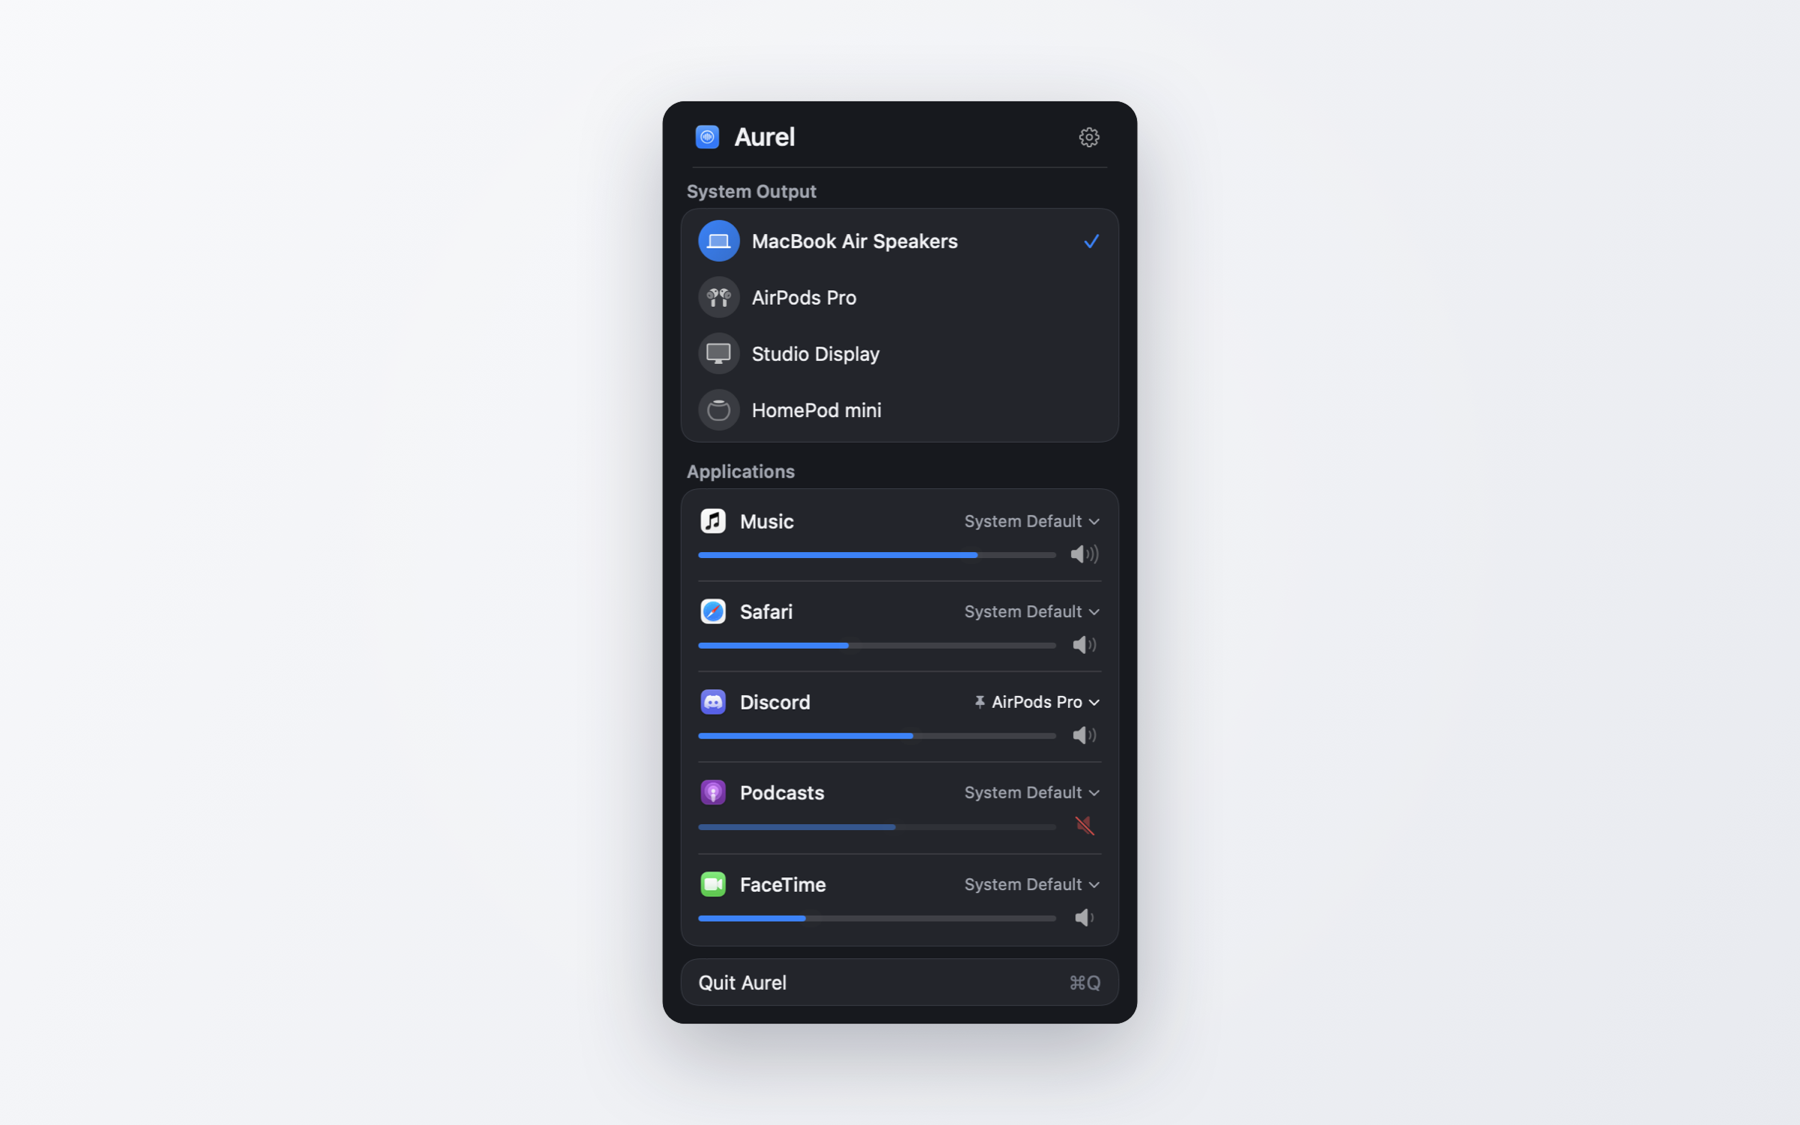
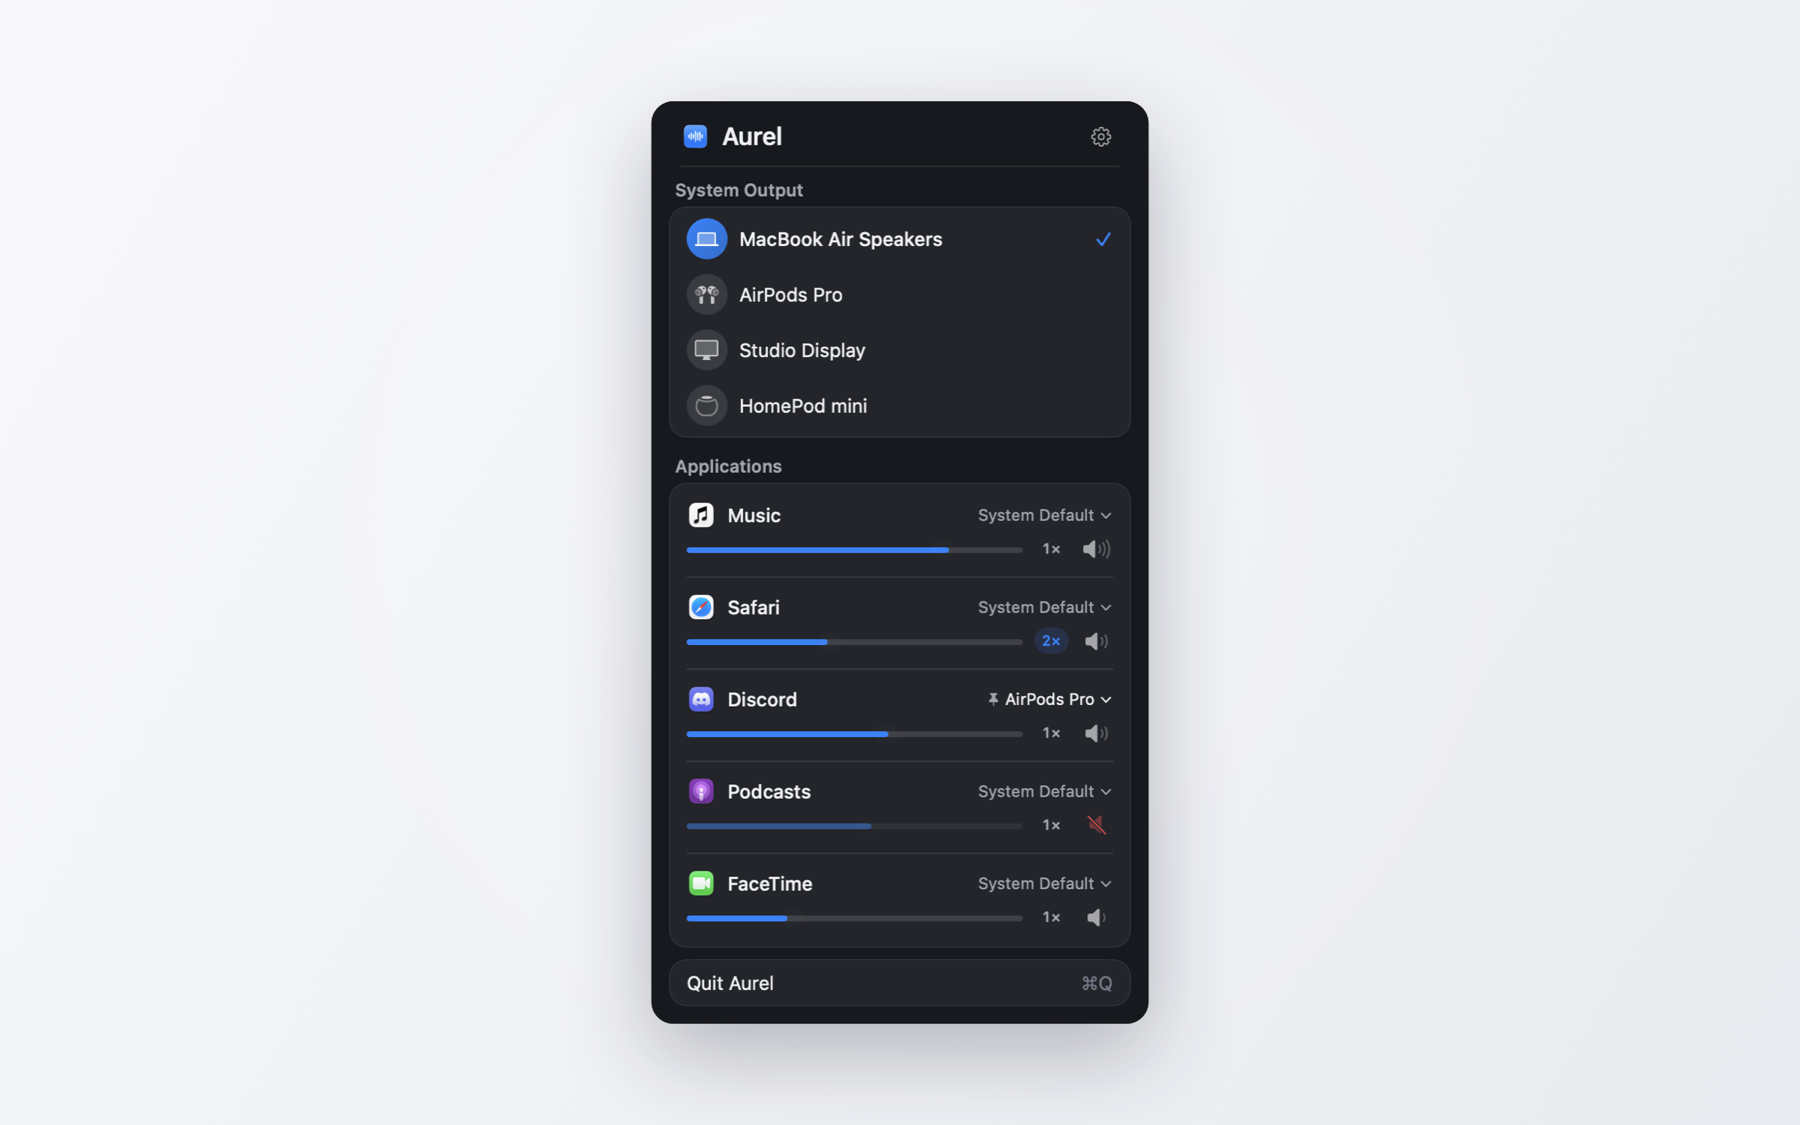
docs: refresh screenshots and describe Amplify and Level Volume

Changed region(s): [[0.3422, 0.0933, 0.6533, 0.9022], [0.4667, 0.7156, 0.4978, 0.7467]]

diff --git a/docs/index.html b/docs/index.html
@@ -167,6 +167,16 @@
             <p>Silence a single app without touching your music or your call.</p>
           </div>
           <div class="card">
+            <div class="glyph"><svg width="20" height="20" viewBox="0 0 24 24" fill="none" stroke="currentColor" stroke-width="2" stroke-linecap="round" stroke-linejoin="round" aria-hidden="true"><path d="M11 5 6 9H3v6h3l5 4V5z"/><path d="M16 9v6M19 7v10"/></svg></div>
+            <h3>Amplify quiet apps</h3>
+            <p>Boost a quiet app up to 4× with one click. A soft limiter keeps loud peaks clean.</p>
+          </div>
+          <div class="card">
+            <div class="glyph"><svg width="20" height="20" viewBox="0 0 24 24" fill="none" stroke="currentColor" stroke-width="2" stroke-linecap="round" stroke-linejoin="round" aria-hidden="true"><path d="M3 12h3l2-5 3 10 3-7 2 2h5"/></svg></div>
+            <h3>Level the volume</h3>
+            <p>Even out loud and quiet moments, like ads that are louder than the video.</p>
+          </div>
+          <div class="card">
             <div class="glyph"><svg width="20" height="20" viewBox="0 0 24 24" fill="none" stroke="currentColor" stroke-width="2" stroke-linecap="round" stroke-linejoin="round" aria-hidden="true"><rect x="3" y="4" width="18" height="12" rx="2"/><path d="M8 20h8M12 16v4"/></svg></div>
             <h3>Pick where it plays</h3>
             <p>Switch the system output, or keep one app on your headphones while the rest follows along.</p>

diff --git a/README.md b/README.md
@@ -28,6 +28,8 @@ Music up, notifications down, the video call exactly where you want it. Aurel gi
 
 - **Per-app volume** — a full-width slider for every app that's playing sound. The level is remembered the next time the app plays.
 - **Per-app mute** — silence one app with a single click and leave the rest alone.
+- **Amplify quiet apps** — boost an app up to 4× (+12 dB) from the small 1× button next to its slider. A soft limiter keeps loud peaks clean.
+- **Level volume** — one switch in Settings evens out loud and quiet moments, like ads that are louder than the video.
 - **System output in one place** — switch between speakers, headphones and displays from the same panel.
 - **Per-app output** — keep music on your speakers and send a call to your headphones. Apps follow the system output by default; a small pin marks any app you route on purpose.
 - **Pinned and hidden apps** — keep favourite apps in the list even when they're quiet, or hide the ones you never want to touch.
@@ -78,7 +80,7 @@ Aurel lives in the menu bar — look for the sound-wave icon.
 
 ## Tips
 
-- **Calls sound quiet in other apps?** During a call, macOS lowers the volume of every other app on the active output. This is system behaviour and happens with or without Aurel. For the best call quality, hide your calling app in Aurel (right-click › Hide).
+- **Other apps get quieter during a call?** While a call is active, macOS lowers every other app on the active output. This is system behaviour and happens with or without Aurel. If something gets too quiet, raise it in Aurel or use Amplify.
 - **Switching outputs often?** Leave apps on **System Default** so they follow the output you pick. Use a fixed output only when you really want an app on a specific device.
 - **Don't run Aurel alongside another per-app volume tool** — both would try to manage the same audio.
 
